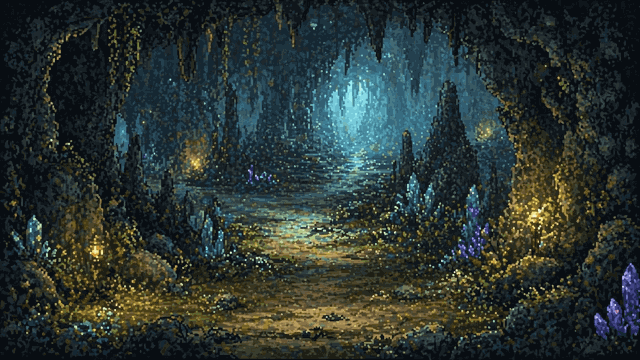
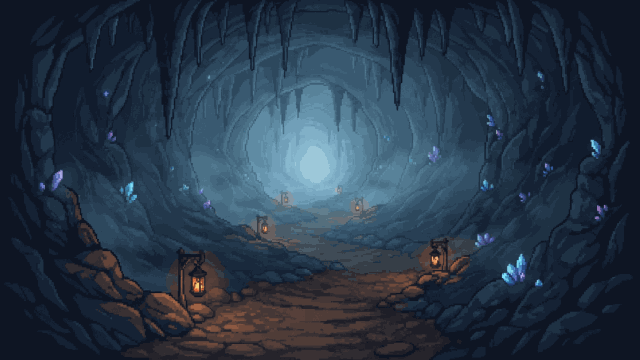
art(backgrounds): new map backgrounds for acts 1-3; ambient light aligned to them; slower, deeper moonlit garden pulses
- Maps rebuilt from clean ChatGPT pixel art (1376x768 -> 640x360, 96 colours).
- Map ambience: act 1 canopy shafts to a pool on the path, act 2 lanterns/crystals/tunnel glow, act 3 lava streams and pools.
- Moonlit garden flowers and moon pulse slowly from nearly off to bright so they read as glowing.
- docs/art/backgrounds-prompts.md: prompt conventions and the three event remake prompts.

diff --git a/src/Client/src/components/ambient/ambientScenes.ts b/src/Client/src/components/ambient/ambientScenes.ts
@@ -123,39 +123,66 @@ export const AMBIENT_SCENES: Readonly<Record<string, AmbientScene>> = {
   // ---------------- マップ（640×360） ----------------
   map_act1: {
     src: MAP('act1'), width: 640, height: 360,
+    // 上中央の木々の切れ間（x 300〜360）から、右下へ斜めに差す光と、道に落ちた光だまり。
     rays: [
-      { x: 300, y: -10, w: 70, h: 260, angle: 8, color: 'rgba(228, 250, 210, 1)', min: 0.08, max: 0.19, period: 12 },
-      { x: 365, y: -10, w: 40, h: 230, angle: 12, color: 'rgba(228, 250, 210, 1)', min: 0.06, max: 0.16, period: 10, delay: -5 },
+      { x: 338, y: -6, w: 80, h: 250, angle: -14, color: 'rgba(232, 248, 210, 1)', min: 0.08, max: 0.2, period: 12 },
+      { x: 318, y: -6, w: 50, h: 270, angle: 2, color: 'rgba(232, 248, 210, 1)', min: 0.05, max: 0.14, period: 10, delay: -5 },
+    ],
+    glows: [
+      { x: 330, y: 10, r: 50, ry: 30, color: '#eef8dc', min: 0.08, max: 0.18, period: 12, style: 'pulse' },
+      { x: 322, y: 262, r: 70, ry: 16, color: '#e8efb8', min: 0.05, max: 0.12, period: 12, style: 'pulse' },
     ],
     particles: [
-      { kind: 'firefly', count: 14, area: { x: 0, y: 20, w: 640, h: 290 }, colors: ['#e8ff7d', '#d2f56a'], duration: 9, opacity: 0.85 },
-      { kind: 'mote', count: 10, area: { x: 250, y: 20, w: 180, h: 200 }, colors: ['#f2ffd6'], duration: 12, opacity: 0.61 },
+      { kind: 'firefly', count: 12, area: { x: 40, y: 150, w: 560, h: 190 }, colors: ['#e8ff7d', '#d2f56a'], duration: 9, opacity: 0.85 },
+      { kind: 'mote', count: 14, area: { x: 270, y: 20, w: 140, h: 200 }, colors: ['#f2ffd6'], duration: 12, opacity: 0.6 },
+      { kind: 'leaf', count: 3, area: { x: 160, y: 0, w: 320, h: 40 }, colors: ['#7f9a45', '#a2b65b'], duration: 17, opacity: 0.8 },
     ],
+    mist: [{ y: 170, h: 60, color: '#9cc6bc', opacity: 0.1, period: 80 }],
   },
   map_act2: {
     src: MAP('act2'), width: 640, height: 360,
     glows: [
-      { x: 195, y: 160, r: 30, color: '#ffc04a', min: 0.14, max: 0.26, period: 2.6 },
-      { x: 95, y: 250, r: 30, color: '#ffc04a', min: 0.14, max: 0.26, period: 3.1, delay: -1 },
-      { x: 535, y: 215, r: 36, color: '#ffc04a', min: 0.14, max: 0.26, period: 2.8, delay: -0.5 },
-      { x: 485, y: 130, r: 26, color: '#ffc04a', min: 0.12, max: 0.22, period: 3.4, delay: -2 },
-      { x: 355, y: 100, r: 85, color: '#6fd2e2', min: 0.06, max: 0.14, period: 8, style: 'pulse' },
-      { x: 620, y: 300, r: 32, color: '#9a7bff', min: 0.1, max: 0.2, period: 6, style: 'pulse' },
+      // 道沿いのランタン（手前ほど大きく）
+      { x: 197, y: 285, r: 34, color: '#ffb44a', min: 0.16, max: 0.3, period: 2.6 },
+      { x: 435, y: 258, r: 30, color: '#ffb44a', min: 0.16, max: 0.3, period: 3.1, delay: -1 },
+      { x: 263, y: 226, r: 18, color: '#ffb44a', min: 0.14, max: 0.26, period: 2.8, delay: -0.5 },
+      { x: 357, y: 206, r: 14, color: '#ffb44a', min: 0.14, max: 0.26, period: 3.4, delay: -2 },
+      { x: 285, y: 197, r: 12, color: '#ffb44a', min: 0.12, max: 0.24, period: 2.9, delay: -1.4 },
+      // 奥の青白い光
+      { x: 320, y: 160, r: 95, ry: 80, color: '#8fd8ec', min: 0.06, max: 0.14, period: 9, style: 'pulse' },
+      // 壁の結晶
+      { x: 57, y: 178, r: 16, color: '#8f8cff', min: 0.08, max: 0.22, period: 6, style: 'pulse' },
+      { x: 129, y: 190, r: 14, color: '#6fd2ff', min: 0.08, max: 0.22, period: 6.8, delay: -2, style: 'pulse' },
+      { x: 515, y: 268, r: 18, color: '#6fd2ff', min: 0.08, max: 0.22, period: 6.2, delay: -3, style: 'pulse' },
+      { x: 595, y: 148, r: 14, color: '#6fd2ff', min: 0.08, max: 0.22, period: 7, delay: -1, style: 'pulse' },
+      { x: 485, y: 240, r: 12, color: '#a78cff', min: 0.08, max: 0.2, period: 5.6, delay: -4, style: 'pulse' },
     ],
     particles: [
-      { kind: 'sparkle', count: 8, area: { x: 20, y: 170, w: 600, h: 140 }, colors: ['#9fe4ff', '#c8a8ff'], duration: 5, opacity: 0.75 },
-      { kind: 'mote', count: 12, area: { x: 290, y: 50, w: 140, h: 160 }, colors: ['#bdf0ff'], duration: 12, opacity: 0.61 },
+      { kind: 'sparkle', count: 8, area: { x: 30, y: 130, w: 590, h: 150 }, colors: ['#9fe4ff', '#c8a8ff'], duration: 5, opacity: 0.75 },
+      { kind: 'mote', count: 12, area: { x: 260, y: 100, w: 120, h: 120 }, colors: ['#bdf0ff'], duration: 12, opacity: 0.55 },
+      { kind: 'drip', count: 4, area: { x: 150, y: 30, w: 340, h: 40 }, colors: ['#93a9dc'], duration: 6, opacity: 0.55 },
     ],
+    mist: [{ y: 180, h: 60, color: '#7f9fc0', opacity: 0.1, period: 90 }],
   },
   map_act3: {
     src: MAP('act3'), width: 640, height: 360,
     glows: [
-      { x: 30, y: 220, r: 40, color: '#ff7a2a', min: 0.14, max: 0.26, period: 2.8 },
-      { x: 540, y: 225, r: 40, color: '#ff7a2a', min: 0.14, max: 0.26, period: 3.3, delay: -1 },
-      { x: 325, y: 155, r: 75, color: '#ff5a1e', min: 0.08, max: 0.16, period: 6, style: 'pulse' },
+      // 奥の赤い光と、溶岩だまり
+      { x: 320, y: 168, r: 100, ry: 80, color: '#ff5a1e', min: 0.06, max: 0.14, period: 7, style: 'pulse' },
+      { x: 320, y: 207, r: 40, ry: 14, color: '#ff7a2a', min: 0.12, max: 0.24, period: 3.4 },
+      { x: 240, y: 242, r: 22, ry: 12, color: '#ff7a2a', min: 0.12, max: 0.24, period: 3 },
+      { x: 198, y: 270, r: 16, ry: 10, color: '#ff7a2a', min: 0.12, max: 0.22, period: 3.6, delay: -1 },
+      // 細く流れ落ちる溶岩
+      { x: 172, y: 150, r: 14, ry: 100, color: '#ff6a2a', min: 0.08, max: 0.18, period: 4.2 },
+      { x: 427, y: 170, r: 14, ry: 85, color: '#ff6a2a', min: 0.08, max: 0.18, period: 4.6, delay: -2 },
+      { x: 228, y: 165, r: 10, ry: 70, color: '#ff6a2a', min: 0.06, max: 0.14, period: 5, delay: -1 },
+      // 岩の割れ目
+      { x: 550, y: 230, r: 24, color: '#ff5a1e', min: 0.06, max: 0.16, period: 4, delay: -1.5 },
+      { x: 600, y: 160, r: 20, color: '#ff5a1e', min: 0.06, max: 0.16, period: 4.4, delay: -2.5 },
+      { x: 75, y: 220, r: 24, color: '#ff5a1e', min: 0.06, max: 0.16, period: 4.8, delay: -0.5 },
     ],
     particles: [
-      { kind: 'ember', count: 24, area: { x: 0, y: 200, w: 640, h: 120 }, colors: ['#ffe6b0', '#ffd08a', '#fff0c8'], duration: 9, opacity: 0.8 },
+      { kind: 'ember', count: 22, area: { x: 60, y: 180, w: 520, h: 140 }, colors: ['#ffe6b0', '#ffd08a', '#fff0c8'], duration: 9, opacity: 0.8 },
     ],
   },
 
@@ -198,13 +225,14 @@ export const AMBIENT_SCENES: Readonly<Record<string, AmbientScene>> = {
   },
   event_moonlit_garden: {
     src: EVENT('moonlit_garden'), width: 480, height: 320,
+    // 花と月の光は、ゆっくり大きく強弱させて「光っている」ことを見せる（6〜9 秒で、ほぼ消える所から明るい所まで）。
     glows: [
-      { x: 335, y: 55, r: 48, color: '#cfe3ff', min: 0.08, max: 0.16, period: 9, style: 'pulse' },
-      { x: 35, y: 250, r: 20, color: '#6fa8ff', min: 0.12, max: 0.24, period: 5, style: 'pulse' },
-      { x: 90, y: 215, r: 18, color: '#6fa8ff', min: 0.12, max: 0.24, period: 5.6, delay: -2, style: 'pulse' },
-      { x: 195, y: 205, r: 14, color: '#6fa8ff', min: 0.1, max: 0.2, period: 6, delay: -1, style: 'pulse' },
-      { x: 255, y: 190, r: 14, color: '#6fa8ff', min: 0.1, max: 0.2, period: 5.2, delay: -3, style: 'pulse' },
-      { x: 392, y: 190, r: 18, color: '#6fa8ff', min: 0.12, max: 0.24, period: 5.8, delay: -4, style: 'pulse' },
+      { x: 335, y: 55, r: 52, color: '#cfe3ff', min: 0.05, max: 0.22, period: 9, style: 'pulse' },
+      { x: 35, y: 250, r: 22, color: '#6fa8ff', min: 0.03, max: 0.3, period: 6.5, style: 'pulse' },
+      { x: 90, y: 215, r: 20, color: '#6fa8ff', min: 0.03, max: 0.3, period: 7.2, delay: -2.4, style: 'pulse' },
+      { x: 195, y: 205, r: 16, color: '#6fa8ff', min: 0.03, max: 0.28, period: 7.8, delay: -1.2, style: 'pulse' },
+      { x: 255, y: 190, r: 16, color: '#6fa8ff', min: 0.03, max: 0.28, period: 6.8, delay: -4, style: 'pulse' },
+      { x: 392, y: 190, r: 20, color: '#6fa8ff', min: 0.03, max: 0.3, period: 7.5, delay: -5.2, style: 'pulse' },
     ],
     particles: [
       { kind: 'firefly', count: 8, area: { x: 50, y: 170, w: 400, h: 130 }, colors: ['#c9ff9c', '#a8d8ff'], duration: 10, opacity: 0.8 },

diff --git a/docs/art/backgrounds-prompts.md b/docs/art/backgrounds-prompts.md
@@ -1,0 +1,70 @@
+# 背景の原画プロンプト（ChatGPT 用・画像の添付なしで使う）
+
+> 規格: [current-art-asset-spec.md](../current-art-asset-spec.md) §4.6。生成した画像は `art-work/` に置き、
+> PNG にしてから `art/source/backgrounds/<種類>/<id>.png` に入れ、`node tools/art-pipeline/build-assets.mjs` で縮小・減色する。
+> 演出（光・粒・霧）は `src/Client/src/components/ambient/ambientScenes.ts` に足し、`?dev=scenes` で位置を合わせる。
+
+## 共通の書き方
+
+どの背景も次の【画風】を入れる（ざらつき防止。2026-11-28 のマップ作り直しで効果があった）。
+
+```
+【画風】16bit 時代の RPG のような、くっきりしたドット絵。1 ドットがはっきり見える粗さで、ノイズのような細かい点描やざらつきは入れない。色数は少なめ（多くて 64 色程度）で、同じ色の面をまとまりとして塗る。グラデーションは段階的なドットで表す。
+```
+
+用途ごとの違い:
+
+| 用途 | 比率 | 書き添えること |
+|---|---|---|
+| マップ | 横長 16:9 | 上に地図が重なる。主役を置かず静かな風景、コントラスト低め。中央下から奥へ道が伸びる一点透視 |
+| 戦闘 | 横長 16:9 | 下 45% は平らな地面（キャラが左右に立つ）。地面には物を置かない。奥の景色は画面の上半分 |
+| イベント | 横長 3:2 | 上に文章、下に選択肢が重なる。主役（泉・本棚・商人など）は中央からやや上、画面の下 3 分の 1 は暗めで落ち着かせる |
+
+## マップ（2026-11-28 採用）
+
+第 1 幕（森）・第 2 幕（洞窟）・第 3 幕（地獄）。本文は会話ログのとおり。要点:
+場面（道と両脇の木・岩）、雰囲気、色（コントラスト低め）、【画風】、構図（16:9、中央下から奥へ道）、人物・文字なし。
+
+## イベント（作り直し）
+
+### 祝福の泉 `blessing_fountain`
+
+```
+ゲームの背景用の、横長のピクセルアート（ドット絵）を1枚描いてください。
+
+【用途】ローグライクカードゲームのイベント画面の背景。上に文章、下に選択肢のボタンが重なる。主役は中央からやや上に置き、画面の下 3 分の 1 は暗めで落ち着かせる。
+【場面】森の奥の、古い石造りの泉。苔むした丸い石の水盤に澄んだ水がたまり、奥の小さなアーチから細い水が流れ落ちている。周りに折れた石柱が数本。頭上の木々の切れ間から、泉へまっすぐ光が差し込んでいる。足元に青い小さな花が点々と咲く。
+【雰囲気】静かで清らか。神聖だが派手すぎない。
+【色】深い緑と青緑を中心に、水面の水色と、差し込む光の淡い黄緑。画面全体を明るくしすぎない。
+【画風】16bit 時代の RPG のような、くっきりしたドット絵。1 ドットがはっきり見える粗さで、ノイズのような細かい点描やざらつきは入れない。色数は少なめ（多くて 64 色程度）で、同じ色の面をまとまりとして塗る。グラデーションは段階的なドットで表す。
+【構図】横長 3:2。泉を中央に、正面からやや見下ろす。左右は木々で囲む。
+【その他】人物・動物・文字・枠・UI は入れない。既存の作品に似せない。
+```
+
+### 古の図書館 `old_library`
+
+```
+ゲームの背景用の、横長のピクセルアート（ドット絵）を1枚描いてください。
+
+【用途】ローグライクカードゲームのイベント画面の背景。上に文章、下に選択肢のボタンが重なる。主役は中央からやや上に置き、画面の下 3 分の 1 は暗めで落ち着かせる。
+【場面】長く使われていない石造りの大図書館。左右の壁一面に高い本棚、2 階の回廊と木の階段。奥の壁に縦長のステンドグラスの窓があり、青白い月明かりが床へ差し込んでいる。中央に古い木の机と、開いたままの本、燭台のろうそくが数本。宙に細かい埃が漂う。
+【雰囲気】静かで少し不思議。忘れられた知識の場所。
+【色】暗い焦げ茶と紺を中心に、窓の青白い光と、ろうそくの暖かい橙を少しだけ。
+【画風】16bit 時代の RPG のような、くっきりしたドット絵。1 ドットがはっきり見える粗さで、ノイズのような細かい点描やざらつきは入れない。色数は少なめ（多くて 64 色程度）で、同じ色の面をまとまりとして塗る。グラデーションは段階的なドットで表す。
+【構図】横長 3:2。奥の窓を中央にした一点透視。机は中央下寄り。
+【その他】人物・動物・文字・枠・UI は入れない。本の背表紙に文字は書かない。既存の作品に似せない。
+```
+
+### 怪しげな商人 `shady_merchant`
+
+```
+ゲームの背景用の、横長のピクセルアート（ドット絵）を1枚描いてください。
+
+【用途】ローグライクカードゲームのイベント画面の背景。上に文章、下に選択肢のボタンが重なる。主役は中央からやや上に置き、画面の下 3 分の 1 は暗めで落ち着かせる。
+【場面】洞窟の奥に構えた、布張りの小さな露店。紫の布の天幕、吊るされたランタンが 3 つ。木の台の上に、怪しく光る小瓶、古い短剣、青い宝玉、骨の飾り、巻物が並ぶ。台の奥に、深くフードをかぶった商人が座り、顔は影で見えない。片手を台の上の青い宝玉へ差し出している。
+【雰囲気】怪しいが、敵意はない。取引の誘い。
+【色】暗い紫と焦げ茶を中心に、ランタンの暖かい橙と、宝玉・小瓶の青紫を少しだけ。
+【画風】16bit 時代の RPG のような、くっきりしたドット絵。1 ドットがはっきり見える粗さで、ノイズのような細かい点描やざらつきは入れない。色数は少なめ（多くて 64 色程度）で、同じ色の面をまとまりとして塗る。グラデーションは段階的なドットで表す。
+【構図】横長 3:2。露店を正面から。商人は中央、品物の台は中央やや下。
+【その他】商人以外の人物・動物・文字・枠・UI は入れない。値札や看板に文字は書かない。既存の作品に似せない。
+```
